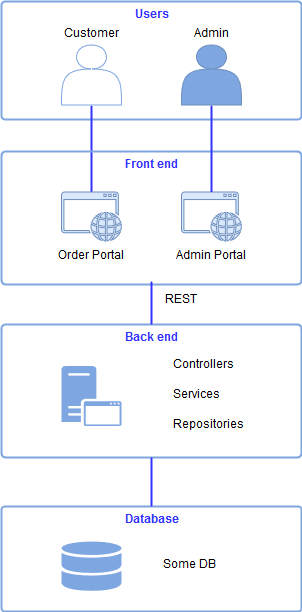
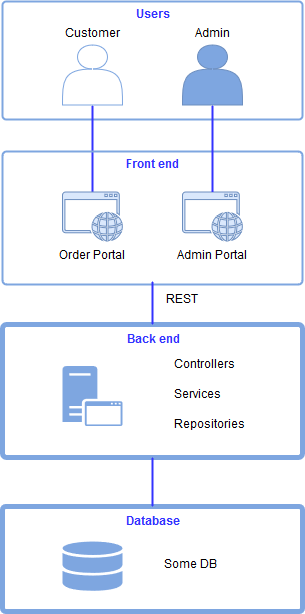
Updated readme and architecture diagram

diff --git a/README.md b/README.md
@@ -17,9 +17,9 @@ There is one micro-service in the system which has three layers of objects:
 There are three controllers:
 1. Number Controller: provides APIs for number provision, quarantine, release, subscribe and terminate.
 1. Addon Controller: provides APIs for addons (pre-populated) retrieval
-1. Event Controller: provides APIs for events retrieval
+1. Event Controller: provides APIs for events (history) retrieval
 
-Details can be find this diagram.
+## APIs
 ![APIs](./resources/API.png)
 
 You can also see APIs after application started and access the Swagger UI. (see the Testing section)
@@ -27,25 +27,26 @@ You can also see APIs after application started and access the Swagger UI. (see 
 ## Database
 ![ERD](./resources/ERD.png)
 
-## Scalability
-1. Horizontal scalability: the micro-service can scale horizontally, probably based on number range. UUID is used as primary keys in the database, so there is conflict among micro-services.
-1. Vertical scalability: number management, service management and event management may be split into separate micro-services if traffic volume or data storage increases.   
+## Scalability (Horizontal)
+1. The micro-service can scale horizontally, probably based on number range (i.e. each micro-service instance is responsible for a number range). UUID is used as primary keys in the database, so there is no conflict among micro-services.
+1. Number management, service management and event management may be split into separate micro-services if traffic volume or data storage increases.   
 In this case, reference keys and parent-child associations should be removed.
 
 ## Performance
 1. Scalability ensures manageable traffic volume and data storage on each server
 1. Pagination is used for number/event retrieval
-1. Indices are used for speeding up some quires (e.g. get events order by number id)
+1. Indices are used for speeding up some queries (e.g. get events order by number id)
 
 ## Race condition handling
 1. Unique constraint is added to ensure there is no multiple provisioning of the same number
-1. Version is added for detecting conflict updates (quarantine, release, subscribe and terminate)
+1. Version is added for detecting conflict updates on numbers (quarantine, release, subscribe and terminate)
 
 # Environment
 * IDE: Spring Tool Suite 3.9.2 RELEASE
-* OS: Windows 8
+* OS: Windows 8 / RHEL 7
 * DATABASE: H2 (In-memory)
-* Language and Framework: Java 8 and Spring Boot 2
+* Language: Java 8
+* Framework: Spring Boot, Hibernate, etc.
 * Build: Gradle
 
 # Provisioned Data
@@ -61,7 +62,7 @@ There are two ways to run the application.
 * Execute: docker pull ivxivx/mr-code-challenge:1.0.0
 * Execute: docker run -p 8080:8080 ivxivx/mr-code-challenge:1.0.0
 
-## As Spring Boot Application
+## As Spring Boot application
 * Go to [project root]/resources
 * Execute: java -jar mr-code-challenge-1.0.0.jar
 
